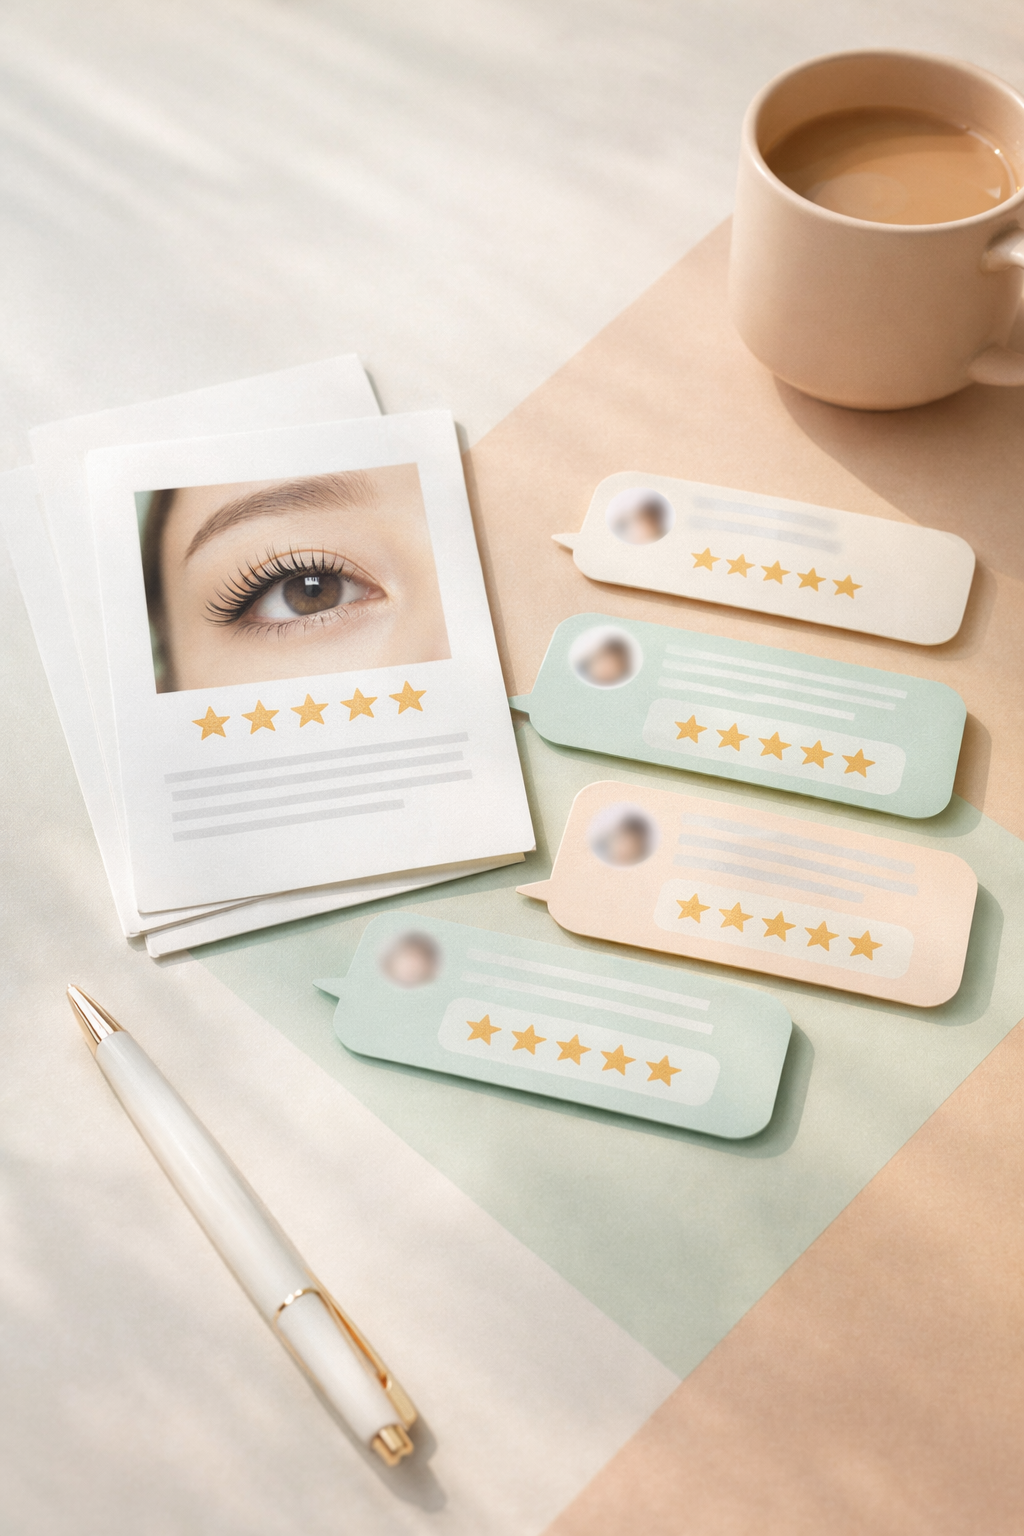
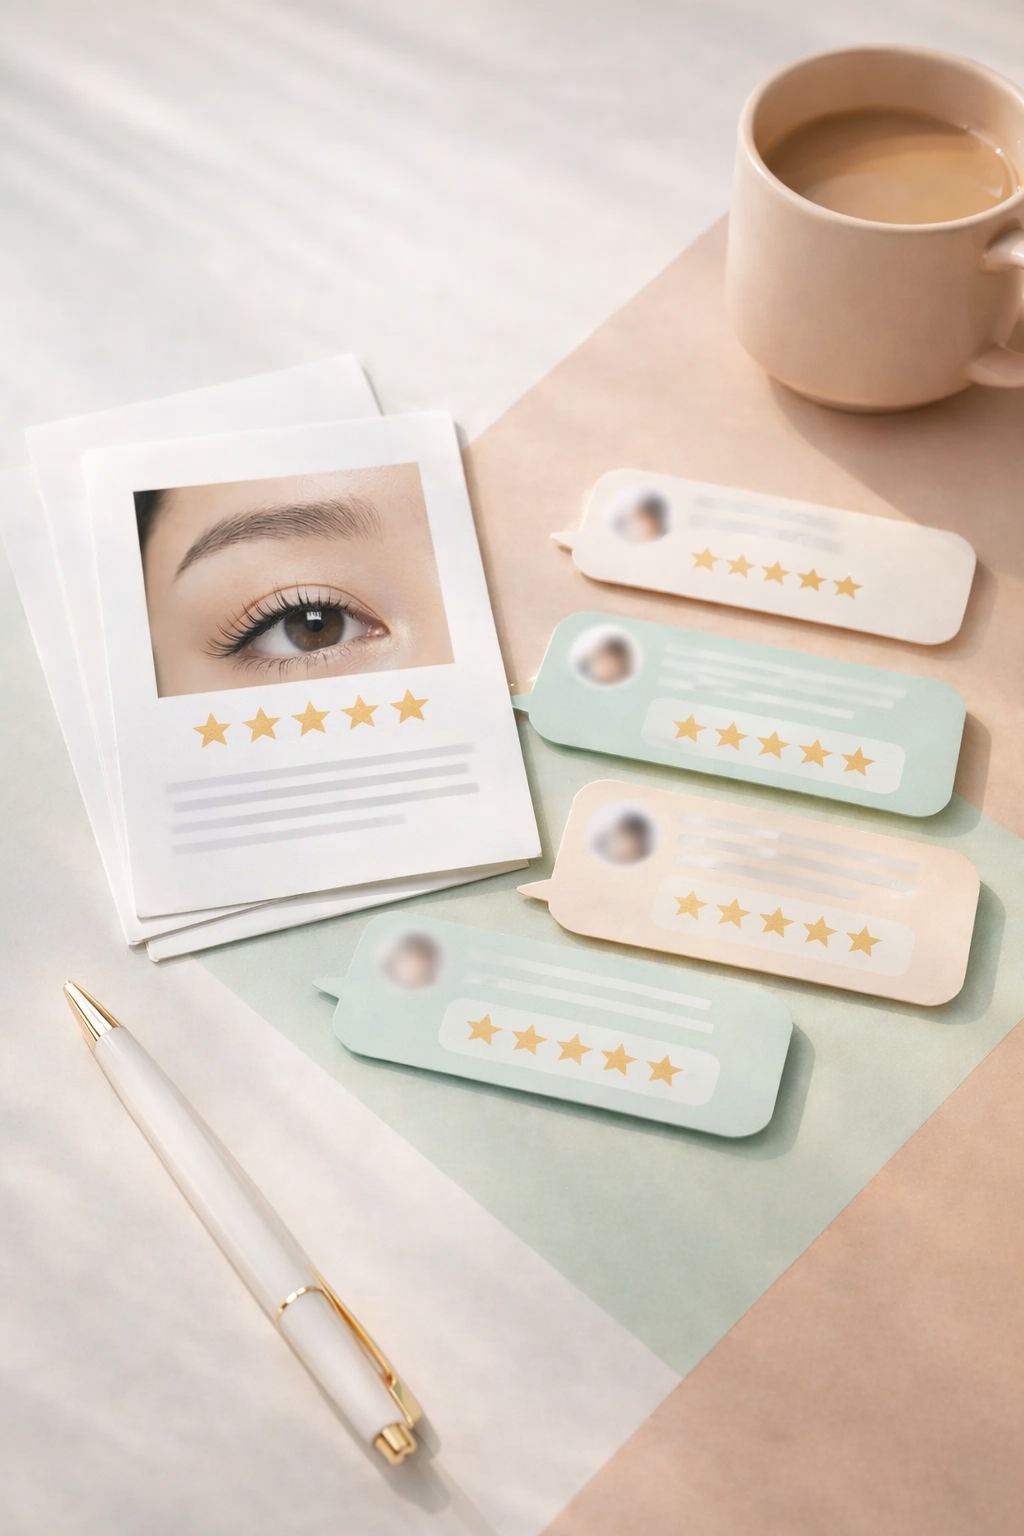
Update eyebrow tattoo content and refresh key visuals

diff --git a/app/page.js b/app/page.js
@@ -9,6 +9,7 @@ const reservationCtaLabel = kakaoChannelUrl
   ? "카카오톡 채널 문의하기"
   : "인스타그램 DM 문의하기";
 const naverPlaceUrl = "https://m.place.naver.com/place/778319613/home";
+const naverReviewUrl = "https://m.place.naver.com/place/778319613/review/visitor";
 const naverMapUrl = "https://map.naver.com/p/entry/place/778319613";
 
 const navItems = [
@@ -21,42 +22,44 @@ const navItems = [
 
 const serviceCards = [
   {
-    title: "Lash Styling",
-    subtitle: "속눈썹 디자인",
-    copy: "눈매와 모질을 고려해 컬과 볼륨을 맞춤 설계합니다.",
-    image: "/assets/service/1.png"
+    title: "Brow Tattoo",
+    subtitle: "눈썹문신 디자인",
+    copy: "골격과 근육 흐름을 고려해 자연스럽고 또렷한 눈썹 라인을 설계합니다.",
+    image: "/assets/service/1.png",
+    className: "service-card--brow-tattoo"
   },
   {
-    title: "Brow Balance",
-    subtitle: "브로우 디자인",
-    copy: "얼굴 비율에 맞춘 정돈된 인상을 제안합니다.",
-    image: "/assets/service/2.png"
+    title: "Retouch & Balance",
+    subtitle: "리터치/보정 디자인",
+    copy: "기존 눈썹 상태와 피부 타입을 반영해 밀도와 결을 정교하게 보정합니다.",
+    image: "/assets/service/2.png",
+    className: "service-card--retouch"
   }
 ];
 
 const serviceHighlights = [
-  "속눈썹 펌 / 연장: 눈매 맞춤 컬 디자인",
-  "브로우 디자인: 얼굴 비율 기반 균형 보정",
-  "왁싱 케어: 피부 민감도 고려한 진정 루틴",
-  "반영구 디자인: 일상 메이크업 시간 단축"
+  "눈썹문신 디자인: 얼굴 비율 기반 맞춤 라인 설계",
+  "결눈썹/콤보눈썹: 인상과 취향에 맞는 표현 방식 제안",
+  "리터치 보정: 유지력과 밀도 밸런스 개선",
+  "반영구 눈썹: 메이크업 시간 단축과 또렷한 인상 완성"
 ];
 
 const priceMenus = [
-  { name: "수분영양펌", price: "35,000원" },
-  { name: "블랙틴트펌", price: "40,000원" },
-  { name: "프리미엄 복구펌", price: "50,000원" }
+  { name: "자연눈썹", price: "문의" },
+  { name: "콤보눈썹", price: "문의" },
+  { name: "리터치 보정", price: "문의" }
 ];
 
 const process = [
-  "상담: 현재 눈매/피부 상태, 원하는 무드 체크",
-  "디자인: 얼굴 비율에 맞춘 맞춤 디자인 제안",
+  "상담: 기존 눈썹 상태/피부 타입/원하는 인상 체크",
+  "디자인: 골격과 비율에 맞춘 맞춤 눈썹 라인 제안",
   "시술: 위생 기준 기반의 섬세한 진행",
-  "애프터케어: 유지 기간과 홈케어 안내"
+  "애프터케어: 탈각/착색 단계별 관리법 안내"
 ];
 
 const businessInfo = [
   { label: "상호", value: "스타일래쉬 (STYLE LASH)" },
-  { label: "업종", value: "속눈썹증모, 연장" },
+  { label: "업종", value: "눈썹문신/반영구" },
   { label: "대표 연락처", value: "0507-1405-3087" },
   { label: "예약 채널", value: "인스타그램 DM @stylelash_kr" },
   { label: "운영시간", value: "매일 11:00 - 21:00" },
@@ -68,15 +71,15 @@ const businessInfo = [
 const faqItems = [
   {
     q: "처음 방문인데 어떤 시술이 맞는지 모르겠어요.",
-    a: "사전 상담에서 눈매, 모질, 평소 메이크업 습관을 확인한 뒤 가장 자연스러운 방향으로 안내드립니다."
+    a: "사전 상담에서 골격, 기존 눈썹 상태, 평소 메이크업 습관을 확인한 뒤 가장 자연스러운 눈썹문신 방향으로 안내드립니다."
   },
   {
     q: "예약은 어떻게 진행되나요?",
     a: "인스타그램 DM으로 성함, 희망 날짜/시간, 희망 시술을 보내주시면 가능한 슬롯을 안내드립니다."
   },
   {
-    q: "시술 후 바로 세안 가능한가요?",
-    a: "시술별 주의사항이 다르며, 당일 관리법은 시술 후 안내해드립니다. 유지력에 직접 영향을 주니 꼭 지켜주세요."
+    q: "눈썹문신 후 관리가 중요한가요?",
+    a: "초기 탈각 기간 관리가 착색 결과에 직접 영향을 줍니다. 세안/보습/주의사항은 시술 직후 상세히 안내해드립니다."
   }
 ];
 
@@ -110,7 +113,7 @@ const localBusinessJsonLd = {
       closes: "21:00"
     }
   ],
-  keywords: ["속눈썹증모", "속눈썹연장", "브로우", "왁싱", "반영구"]
+  keywords: ["눈썹문신", "반영구눈썹", "콤보눈썹", "자연눈썹", "산본눈썹문신"]
 };
 
 export default function Home() {
@@ -161,8 +164,8 @@ export default function Home() {
               Effortless Beauty.
             </h1>
             <p>
-              부드러운 움직임과 선명한 결과. 스타일래쉬는 속눈썹과 브로우 디자인을
-              더 가볍고 세련된 일상 루틴으로 바꿉니다.
+              부드러운 인상 변화와 선명한 결과. 스타일래쉬는 눈썹문신 디자인을
+              더 자연스럽고 세련된 일상 루틴으로 완성합니다.
             </p>
             <div className="hero-actions">
               <a href="#pricing" className="btn-main">
@@ -214,7 +217,11 @@ export default function Home() {
           </div>
           <div className="service-grid">
             {serviceCards.map((card) => (
-              <article key={card.title} className="service-card reveal" data-magnetic="true">
+              <article
+                key={card.title}
+                className={`service-card ${card.className || ""} reveal`}
+                data-magnetic="true"
+              >
                 <div className="service-media">
                   <Image
                     src={card.image}
@@ -238,7 +245,7 @@ export default function Home() {
             <h2>자연스럽게, 확실하게</h2>
           </div>
           <div className="ba-grid">
-            <figure className="reveal" data-magnetic="true">
+            <figure className="ba-item ba-item-before reveal" data-magnetic="true">
               <Image
                 src="/assets/before-after/1.png"
                 alt="시술 전 이미지"
@@ -248,7 +255,7 @@ export default function Home() {
               />
               <figcaption>Before</figcaption>
             </figure>
-            <figure className="reveal" data-magnetic="true">
+            <figure className="ba-item ba-item-after reveal" data-magnetic="true">
               <Image
                 src="/assets/before-after/2.png"
                 alt="시술 후 이미지"
@@ -307,7 +314,7 @@ export default function Home() {
             <div className="review-copy">
               <p>네이버 기준 리뷰</p>
               <strong>방문자리뷰 18 · 블로그리뷰 43</strong>
-              <a href={naverPlaceUrl} target="_blank" rel="noreferrer">
+              <a href={naverReviewUrl} target="_blank" rel="noreferrer">
                 네이버 플레이스 보기
               </a>
             </div>
@@ -345,7 +352,7 @@ export default function Home() {
 
         <section className="contact" id="contact">
           <p className="eyebrow">Contact</p>
-          <h2>원하는 날짜를 보내주시면 빠르게 안내드릴게요.</h2>
+          <h2>원하시는 날짜를 보내주시면 빠르게 예약 안내드릴게요.</h2>
           <div className="contact-actions">
             <a href={reservationUrl} target="_blank" rel="noreferrer" className="btn-main">
               인스타그램 DM 예약

diff --git a/app/globals.css b/app/globals.css
@@ -306,14 +306,16 @@ a {
   border-radius: 22px;
   overflow: hidden;
   margin-bottom: 2.1rem;
+  background: linear-gradient(160deg, #f7f3ef 0%, #f2f6f7 100%);
   box-shadow: 0 18px 40px #183a5330;
   transform-style: preserve-3d;
   transition: transform 360ms cubic-bezier(0.2, 0.7, 0.2, 1), box-shadow 320ms ease;
 }
 
 .hero-visual img {
-  object-fit: cover;
-  transform: scale(1.02);
+  object-fit: contain;
+  object-position: center center;
+  transform: scale(1);
   transition: transform 850ms cubic-bezier(0.2, 0.7, 0.2, 1), filter 700ms ease;
 }
 
@@ -421,7 +423,7 @@ a {
 
 .service-media {
   position: relative;
-  height: 240px;
+  height: 340px;
   border-radius: 12px;
   overflow: hidden;
   margin-bottom: 0.65rem;
@@ -431,8 +433,13 @@ a {
 
 .service-media img {
   object-fit: cover;
+  object-position: center 34%;
   transform: scale(1.02);
   transition: transform 800ms cubic-bezier(0.2, 0.7, 0.2, 1), filter 650ms ease;
+}
+
+.service-card--retouch .service-media img {
+  object-position: 0% 28%;
 }
 
 .service-media::after {
@@ -480,6 +487,10 @@ a {
   object-fit: cover;
   transform: scale(1.02);
   transition: transform 800ms cubic-bezier(0.2, 0.7, 0.2, 1), filter 650ms ease;
+}
+
+.ba-item-before img {
+  object-position: center 73%;
 }
 
 .ba-grid figure::after {
@@ -612,6 +623,7 @@ a {
 
 .review-media img {
   object-fit: cover;
+  object-position: center 38%;
   transform: scale(1.02);
   transition: transform 760ms cubic-bezier(0.2, 0.7, 0.2, 1), filter 650ms ease;
 }
@@ -721,13 +733,27 @@ a {
   margin: 0.5rem 0 0;
   font-family: var(--font-display), sans-serif;
   letter-spacing: -0.03em;
-  max-width: 25ch;
+  max-width: none;
+  white-space: nowrap;
 }
 
 .contact-actions {
   margin-top: 1rem;
   display: flex;
+  align-items: stretch;
   gap: 0.55rem;
+}
+
+.contact-actions .btn-main,
+.contact-actions .btn-sub {
+  flex: 1;
+  display: flex;
+  align-items: center;
+  justify-content: center;
+  min-height: 46px;
+  text-align: center;
+  line-height: 1.2;
+  white-space: nowrap;
 }
 
 .contact .btn-sub {
@@ -759,7 +785,7 @@ a {
   }
 
   .hero-visual:hover img {
-    transform: scale(1.09);
+    transform: scale(1.01);
     filter: saturate(1.06);
   }
 
@@ -916,7 +942,7 @@ a {
   }
 
   .service-media {
-    height: 205px;
+    height: 280px;
   }
 
   .ba-grid figure {

diff --git a/app/layout.js b/app/layout.js
@@ -17,21 +17,21 @@ const siteUrl = process.env.NEXT_PUBLIC_SITE_URL || "https://stylash.vercel.app"
 export const metadata = {
   metadataBase: new URL(siteUrl),
   title: {
-    default: "STYLE LASH | 속눈썹 & 뷰티 디자인",
+    default: "STYLE LASH | 눈썹문신 & 반영구 디자인",
     template: "%s | STYLE LASH"
   },
   description:
-    "군포 산본 스타일래쉬. 속눈썹 펌, 브로우/왁싱, 반영구까지 1:1 맞춤 디자인으로 완성하는 STYLE LASH",
+    "군포 산본 스타일래쉬. 눈썹문신, 반영구 눈썹, 리터치 보정까지 1:1 맞춤 디자인으로 완성하는 STYLE LASH",
   applicationName: "STYLE LASH",
   keywords: [
     "스타일래쉬",
-    "속눈썹펌",
-    "속눈썹연장",
-    "브로우디자인",
-    "왁싱",
-    "반영구",
-    "군포속눈썹",
-    "산본속눈썹",
+    "눈썹문신",
+    "반영구눈썹",
+    "콤보눈썹",
+    "자연눈썹",
+    "눈썹리터치",
+    "군포눈썹문신",
+    "산본눈썹문신",
     "stylelash_kr"
   ],
   alternates: {
@@ -42,9 +42,9 @@ export const metadata = {
     locale: "ko_KR",
     url: "/",
     siteName: "STYLE LASH",
-    title: "STYLE LASH | 속눈썹 & 뷰티 디자인",
+    title: "STYLE LASH | 눈썹문신 & 반영구 디자인",
     description:
-      "군포 산본 스타일래쉬. 속눈썹, 브로우, 왁싱, 반영구까지 1:1 맞춤 디자인.",
+      "군포 산본 스타일래쉬. 눈썹문신, 반영구 눈썹, 리터치 보정까지 1:1 맞춤 디자인.",
     images: [
       {
         url: "/og/main.png",
@@ -62,9 +62,9 @@ export const metadata = {
   },
   twitter: {
     card: "summary_large_image",
-    title: "STYLE LASH | 속눈썹 & 뷰티 디자인",
+    title: "STYLE LASH | 눈썹문신 & 반영구 디자인",
     description:
-      "군포 산본 스타일래쉬. 속눈썹, 브로우, 왁싱, 반영구 1:1 맞춤 디자인.",
+      "군포 산본 스타일래쉬. 눈썹문신, 반영구 눈썹, 리터치 보정 1:1 맞춤 디자인.",
     images: ["/og/main.png"]
   },
   robots: {
